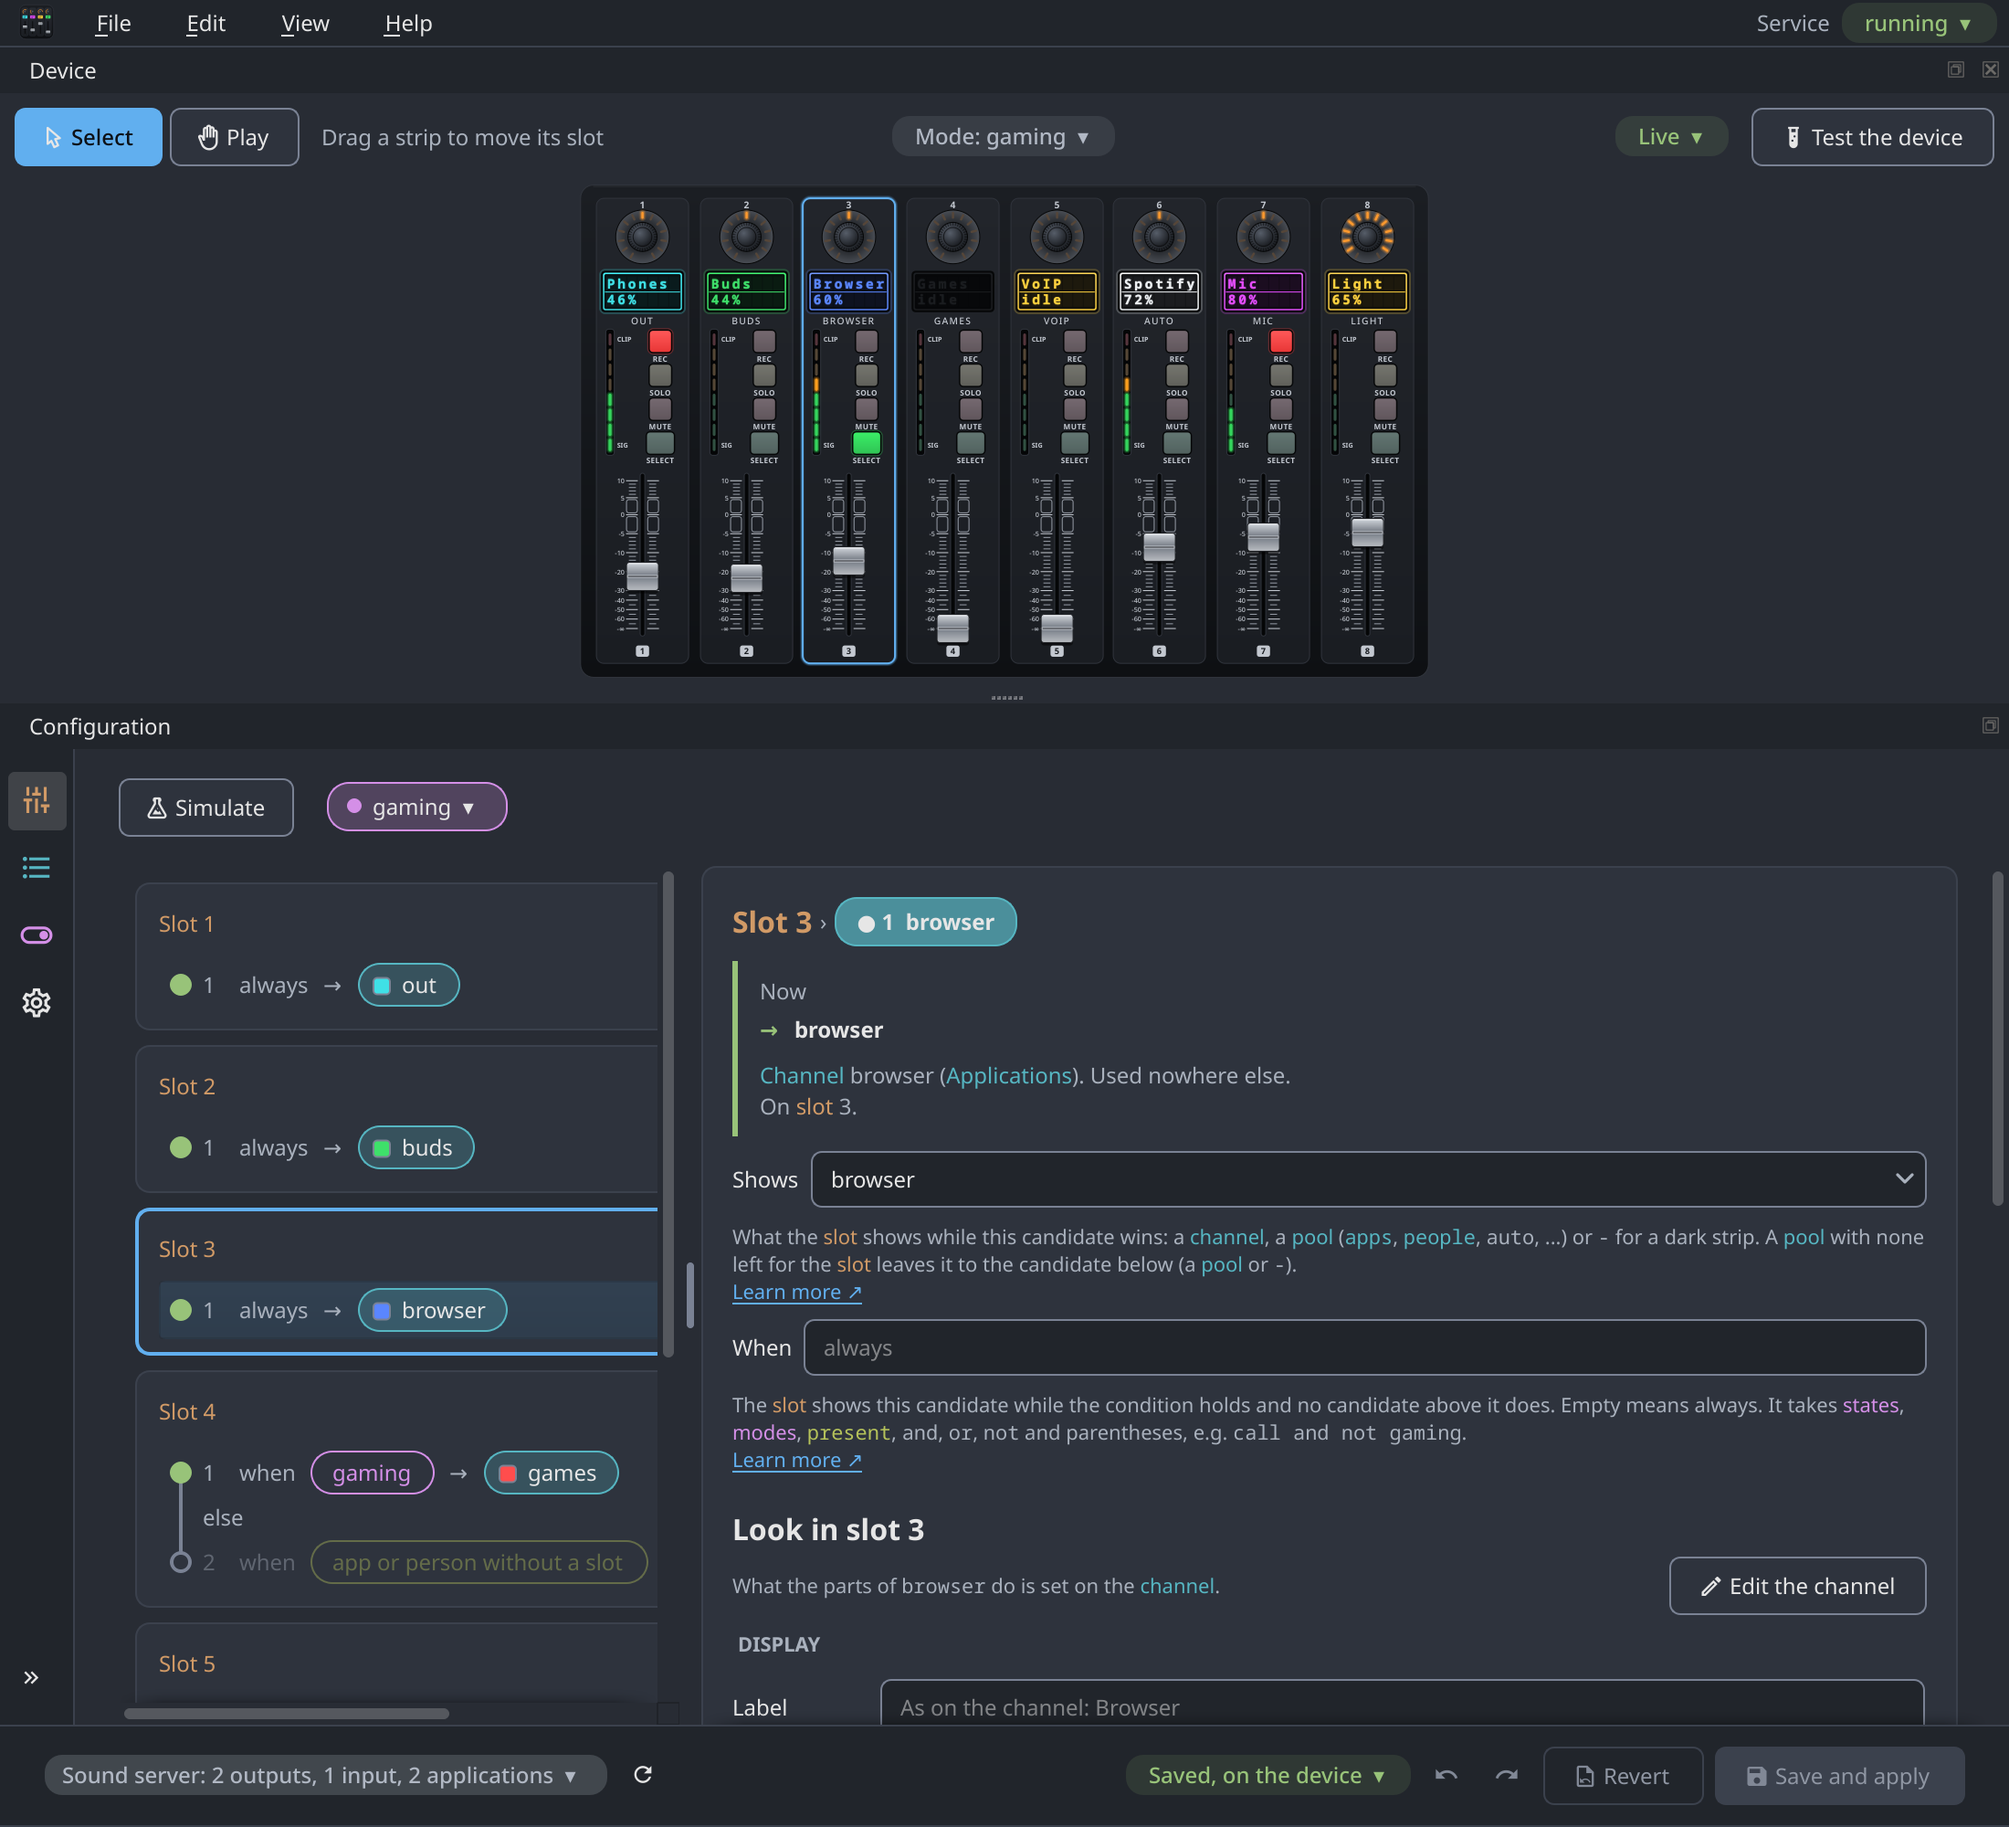
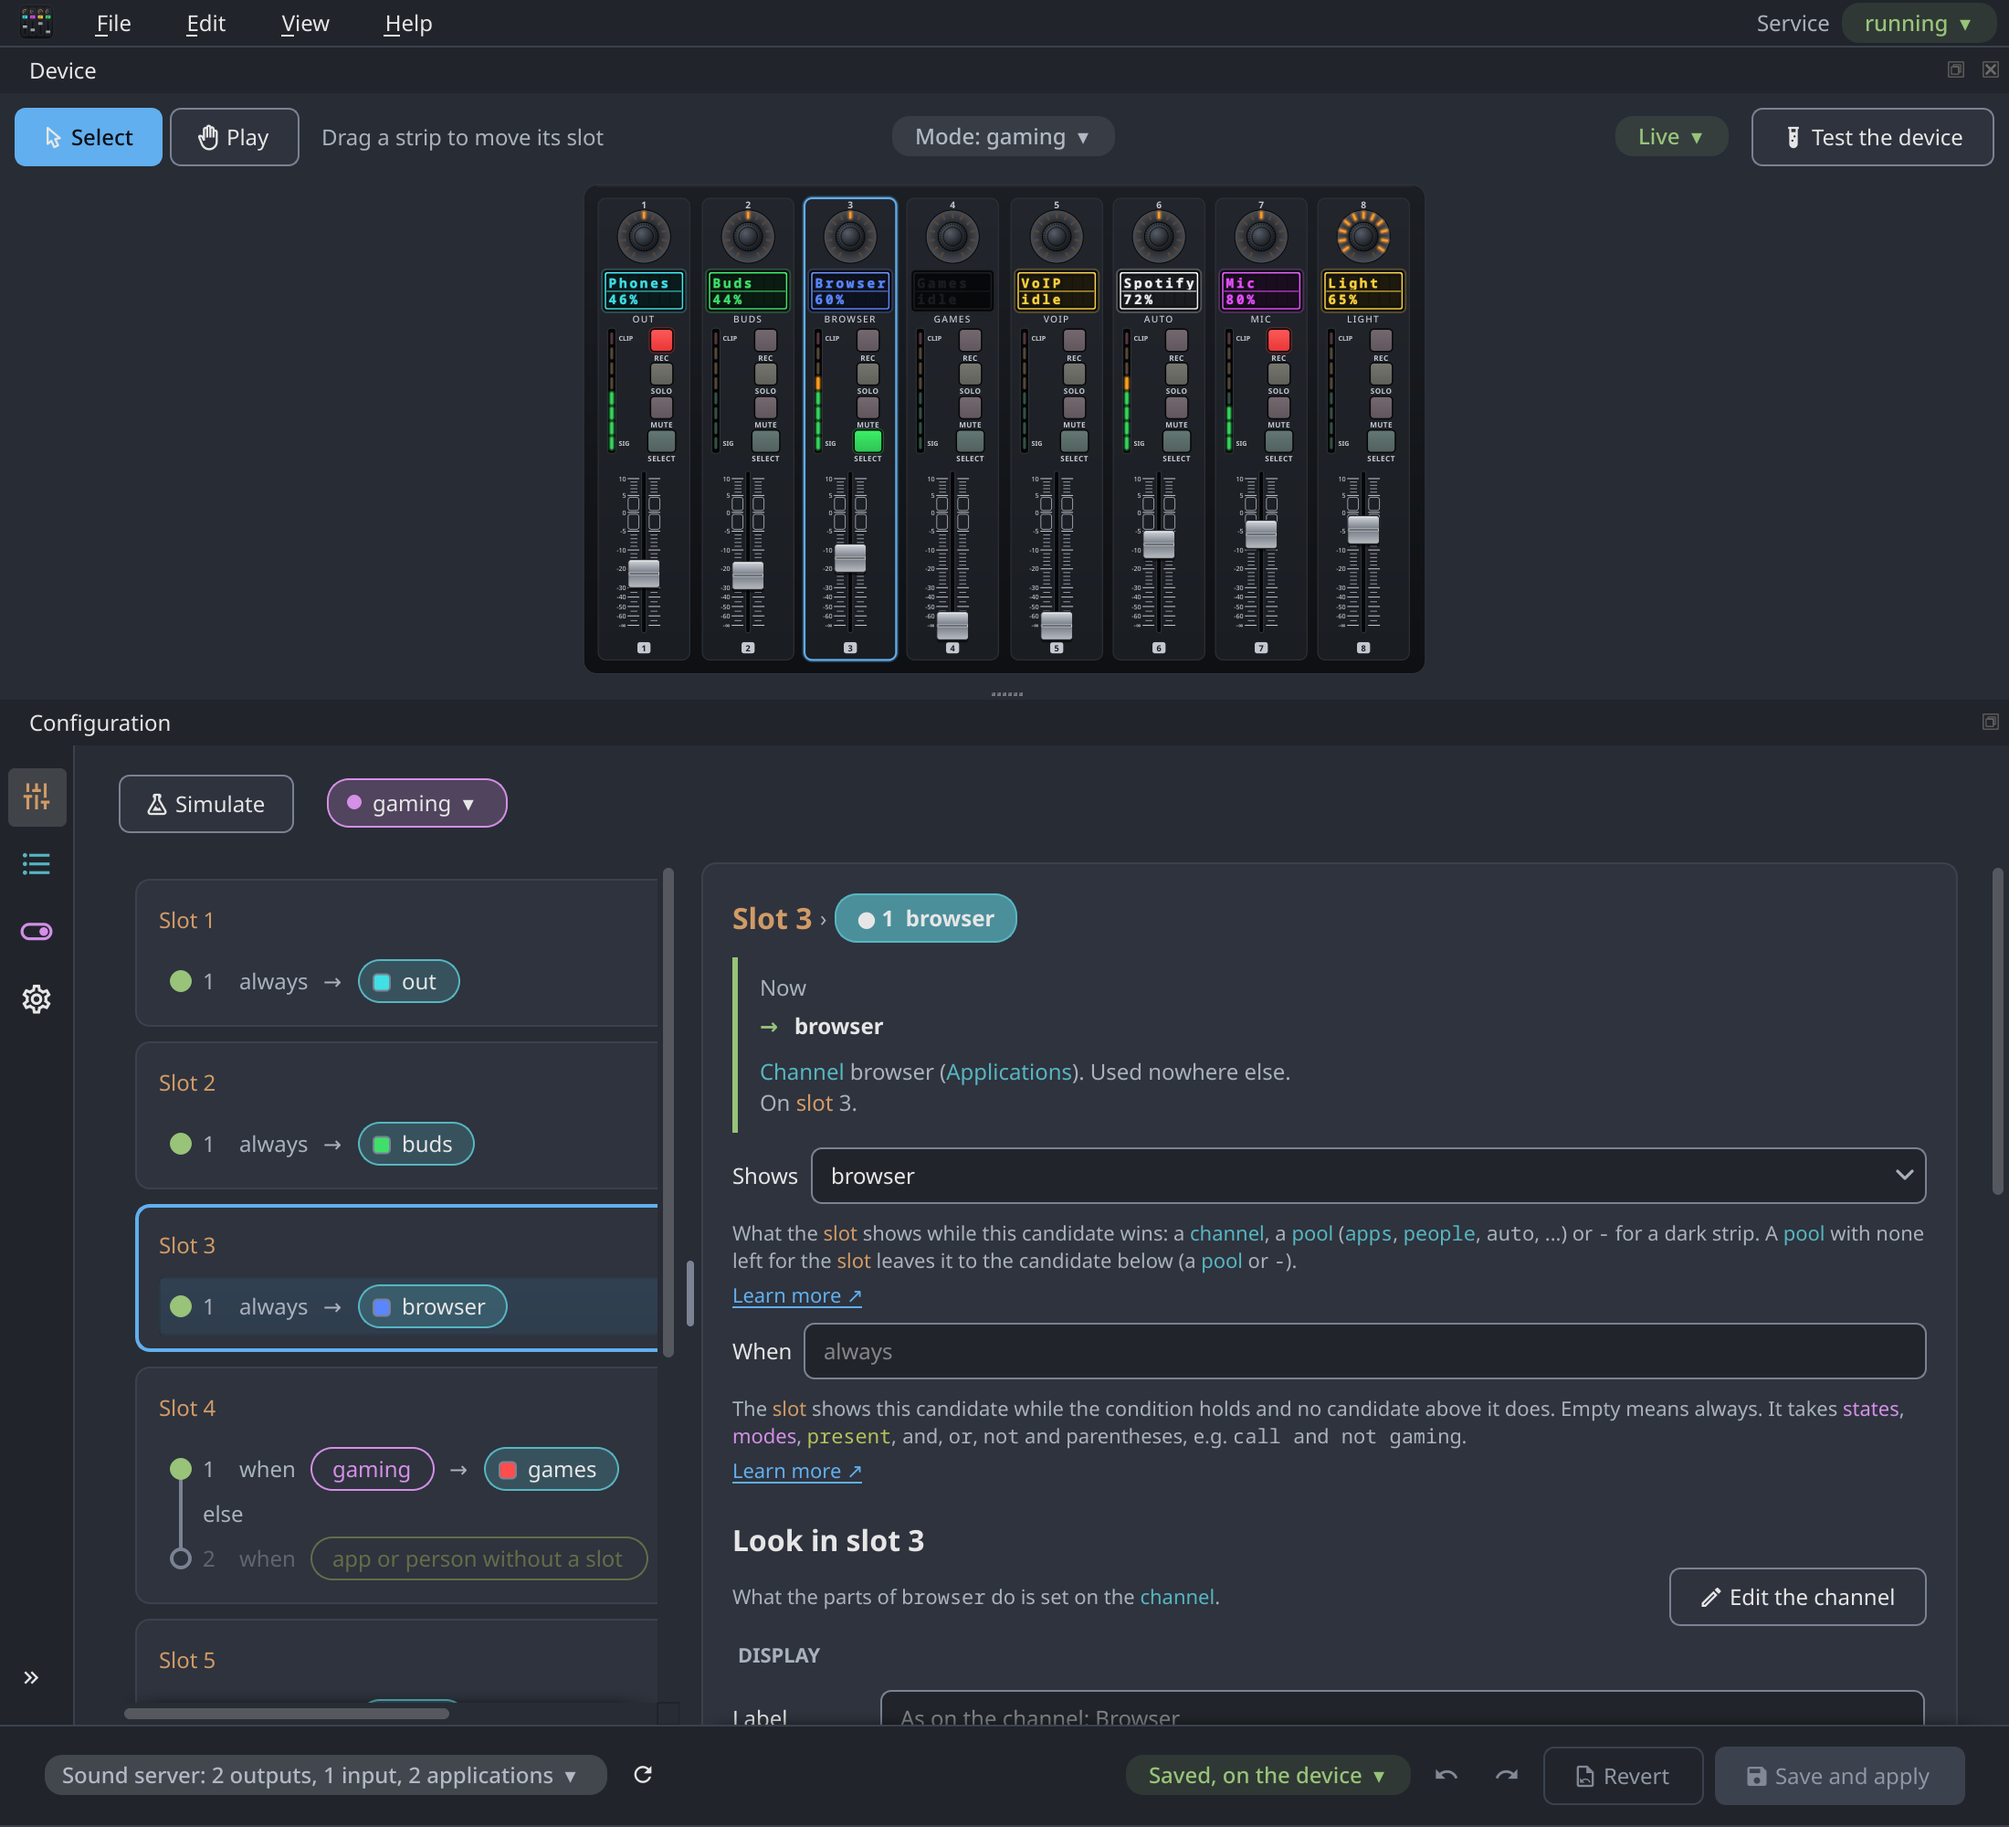
GUI: the default of an unbound part under its help, apart from the text
A part left unbound says "not bound" where its field would be, and its
default is under the help like every other default. The line of the
default stands a little apart from the help, and "Learn more" further
from the default. The help of `lcd` no longer says its default itself.

diff --git a/tests/gui/qt/test_bindings.py b/tests/gui/qt/test_bindings.py
@@ -47,6 +47,15 @@ def visible(widget: QWidget, window: MainWindow) -> bool:
     return shows(widget, window)
 
 
+def help_of(field: BindingField) -> str:
+    """The help under the row of `field`, as it reads: its default at the end."""
+    parent = field.parentWidget()
+    while not isinstance(parent, OptionRow):
+        assert parent is not None
+        parent = parent.parentWidget()
+    return words(parent.help)
+
+
 def words(shown: QLabel) -> str:
     """The text of a label as it reads, its spaces as one."""
     return " ".join(plain(shown.text()).split())
@@ -58,7 +67,8 @@ def test_a_fader_bound_to_a_program_writes_its_table(qtbot: QtBot, window: MainW
     field = binding(fader)
     # not bound: what the strip does without it, and a button to bind it
     assert not visible(field.program, window)
-    assert words(field.unbound) == "DEFAULT none: the fader stays down"
+    assert words(field.unbound) == "not bound"
+    assert "DEFAULT none: the fader stays down " in help_of(field) + " "
     assert field.bind.text() == ""
     assert [action.text() for action in field.menu.actions() if action.isVisible()] == [
         "Home Assistant",
@@ -211,9 +221,11 @@ def test_the_meter_of_an_audio_strip_is_a_choice_or_bound(qtbot: QtBot, window: 
 def test_a_custom_meter_lcd_and_presence_are_bound_or_not_set(qtbot: QtBot, window: MainWindow):
     add_custom(window)
     meter = binding(row(window, "meter"))
-    assert words(meter.unbound) == "DEFAULT none: the meter stays dark"
+    assert words(meter.unbound) == "not bound"
+    assert "DEFAULT none: the meter stays dark " in help_of(meter) + " "
     lcd = binding(row(window, "lcd"))
-    assert words(lcd.unbound) == "DEFAULT the value of the fader, else of the encoder"
+    assert words(lcd.unbound) == "not bound"
+    assert "DEFAULT the value of the fader, else of the encoder " in help_of(lcd) + " "
     present = binding(row(window, "present"))
     # a program only: no Home Assistant
     assert HOME_ASSISTANT not in present.actions_
@@ -227,7 +239,8 @@ def test_a_custom_meter_lcd_and_presence_are_bound_or_not_set(qtbot: QtBot, wind
 def test_the_lcd_of_an_audio_strip_says_what_it_shows_unbound(qtbot: QtBot, window: MainWindow):
     show_channel(window, "out")
     lcd = binding(row(window, "lcd"))
-    assert words(lcd.unbound) == "DEFAULT what the type shows"
+    assert words(lcd.unbound) == "not bound"
+    assert "DEFAULT what the type shows " in help_of(lcd) + " "
     lcd.actions_[HOME_ASSISTANT].trigger()
     assert window.document.get(("channel", "out", "lcd")) == "homeassistant"
     assert words(lcd.unbound) == ""

diff --git a/src/xtouch_daemon/gui/qt/fields/binding.py b/src/xtouch_daemon/gui/qt/fields/binding.py
@@ -17,7 +17,7 @@ from PyQt6.QtWidgets import QComboBox, QHBoxLayout, QMenu, QToolButton, QVBoxLay
 from xtouch_daemon.config.bindings import HOME_ASSISTANT
 from xtouch_daemon.config.sections import BehaviorConfig
 from xtouch_daemon.gui.domain.schema import Kind, Option, describe
-from xtouch_daemon.gui.qt.fields.basics import help_label, help_text, label, set_help
+from xtouch_daemon.gui.qt.fields.basics import help_label, help_text, label
 from xtouch_daemon.gui.qt.fields.choice import Choice
 from xtouch_daemon.gui.qt.fields.controls import ColorPicker, Switch
 from xtouch_daemon.gui.qt.fields.entity_table import EntityTable
@@ -172,7 +172,6 @@ class BindingField(QWidget):
             case _:
                 # nothing to pick: unbound, the part does what its default says
                 self.unbound = label("", "hint")
-                self.unbound.setTextFormat(Qt.TextFormat.RichText)
                 return self.unbound
 
     def _add_rows(self, layout: QVBoxLayout) -> None:
@@ -283,8 +282,8 @@ class BindingField(QWidget):
             case Kind.COLOR:
                 self.colors.show_value(str(shown))
             case _:
-                # as under every field: DEFAULT and the value as a chip
-                set_help(self.unbound, "", default=self._default_text() if value is None else None)
+                # what it does then is the default under the help (see `OptionRow.load`)
+                self.unbound.setText("not bound" if value is None else "")
 
     def word(self) -> object:
         """The word shown (or what it is by default), None while the part is bound to a program or a channel."""

diff --git a/src/xtouch_daemon/gui/qt/fields/basics.py b/src/xtouch_daemon/gui/qt/fields/basics.py
@@ -225,7 +225,8 @@ def help_tail(default: str | None = None, link: str | None = None) -> str:
         )
     if link:
         parts.append(f'<a href="{html.escape(link)}">{LEARN_MORE.replace(" ", "&nbsp;")}&nbsp;↗</a>')
-    return "&emsp;".join(parts)
+    # Qt draws an em space narrow: plain spaces that don't break keep the two apart
+    return ("&nbsp;" * 5).join(parts)
 
 
 def help_html(text: str, link: str | None = None, default: str | None = None) -> str:
@@ -233,7 +234,11 @@ def help_html(text: str, link: str | None = None, default: str | None = None) ->
     Help from a docstring, then on a line of its own what an unset option takes and a link to the documentation (see
     `help_tail`): in the same place under every field, not wherever the text happens to end.
     """
-    return "<br>".join(part for part in (help_text(text), help_tail(default, link)) if part)
+    tail = help_tail(default, link)
+    if not text:
+        return tail
+    # a little apart from the text, so the two don't run together
+    return help_text(text) + (f'<div style="margin-top: {Space.XS}px">{tail}</div>' if tail else "")
 
 
 def help_label(text: str, role: str, link: str | None = None, default: str | None = None) -> QLabel:

diff --git a/src/xtouch_daemon/gui/qt/fields/option_row.py b/src/xtouch_daemon/gui/qt/fields/option_row.py
@@ -168,6 +168,8 @@ class OptionRow(QWidget):
         self._get = get
         self._put = put
         self._placeholder = placeholder
+        self.link = link
+        """The page of the documentation that "Learn more" opens; None for none."""
         self._loading = False
         self.inherited: str | None = None
         """
@@ -515,6 +517,10 @@ class OptionRow(QWidget):
                 case Kind.BINDING:
                     self.binding.show_value(value)
                     self._show_meaning()
+                    if not self.option.default_text and self._placeholder is not None:
+                        # what the part does unbound, under the help as every default (it may change with others)
+                        set_help(self.help, self.option.help, self.link, self._placeholder())
+                        self.help.show()
                 case _ as unreachable:
                     assert_never(unreachable)
         finally:

diff --git a/src/xtouch_daemon/config/strip.py b/src/xtouch_daemon/config/strip.py
@@ -99,7 +99,7 @@ class BaseStripConfig(Model):
     lcd: LcdPart | None = None
     """
     The second line of the LCD, instead of the volume. A `watch` or a `poll` shows each line it prints, an entity its
-    state. By default what the strip type shows.
+    state.
     """
 
     @property

diff --git a/CHANGELOG.md b/CHANGELOG.md
@@ -117,8 +117,8 @@ The format is based on [Keep a Changelog](https://keepachangelog.com/en/1.1.0/),
   configuration get its room.
 - GUI: the pill of the mode is over the middle of the drawing; it moves aside only where the bar has no room for it.
 - GUI: the default of an option and its "Learn more" link are on a line of their own under its help, in the same place
-  under every field. A part without a field (e.g. the LCD of a channel left unbound) shows its default the same way,
-  "DEFAULT" and the value, not "default: …".
+  under every field, a little apart from the text. A part left unbound (e.g. the LCD of a channel) says "not bound"
+  and has its default there too, instead of "default: …" in the place of a field.
 - GUI: the drawing of a part on the page Channels is flush with the title of its card, in a narrower column.
 - GUI: the bar of the virtual device the window hosts is now the pill "Virtual device", next to "Live", with how it
   is connected. Its popover unplugs and plugs it in, switches it off and on, closes it, and breaks the touch sensor of
